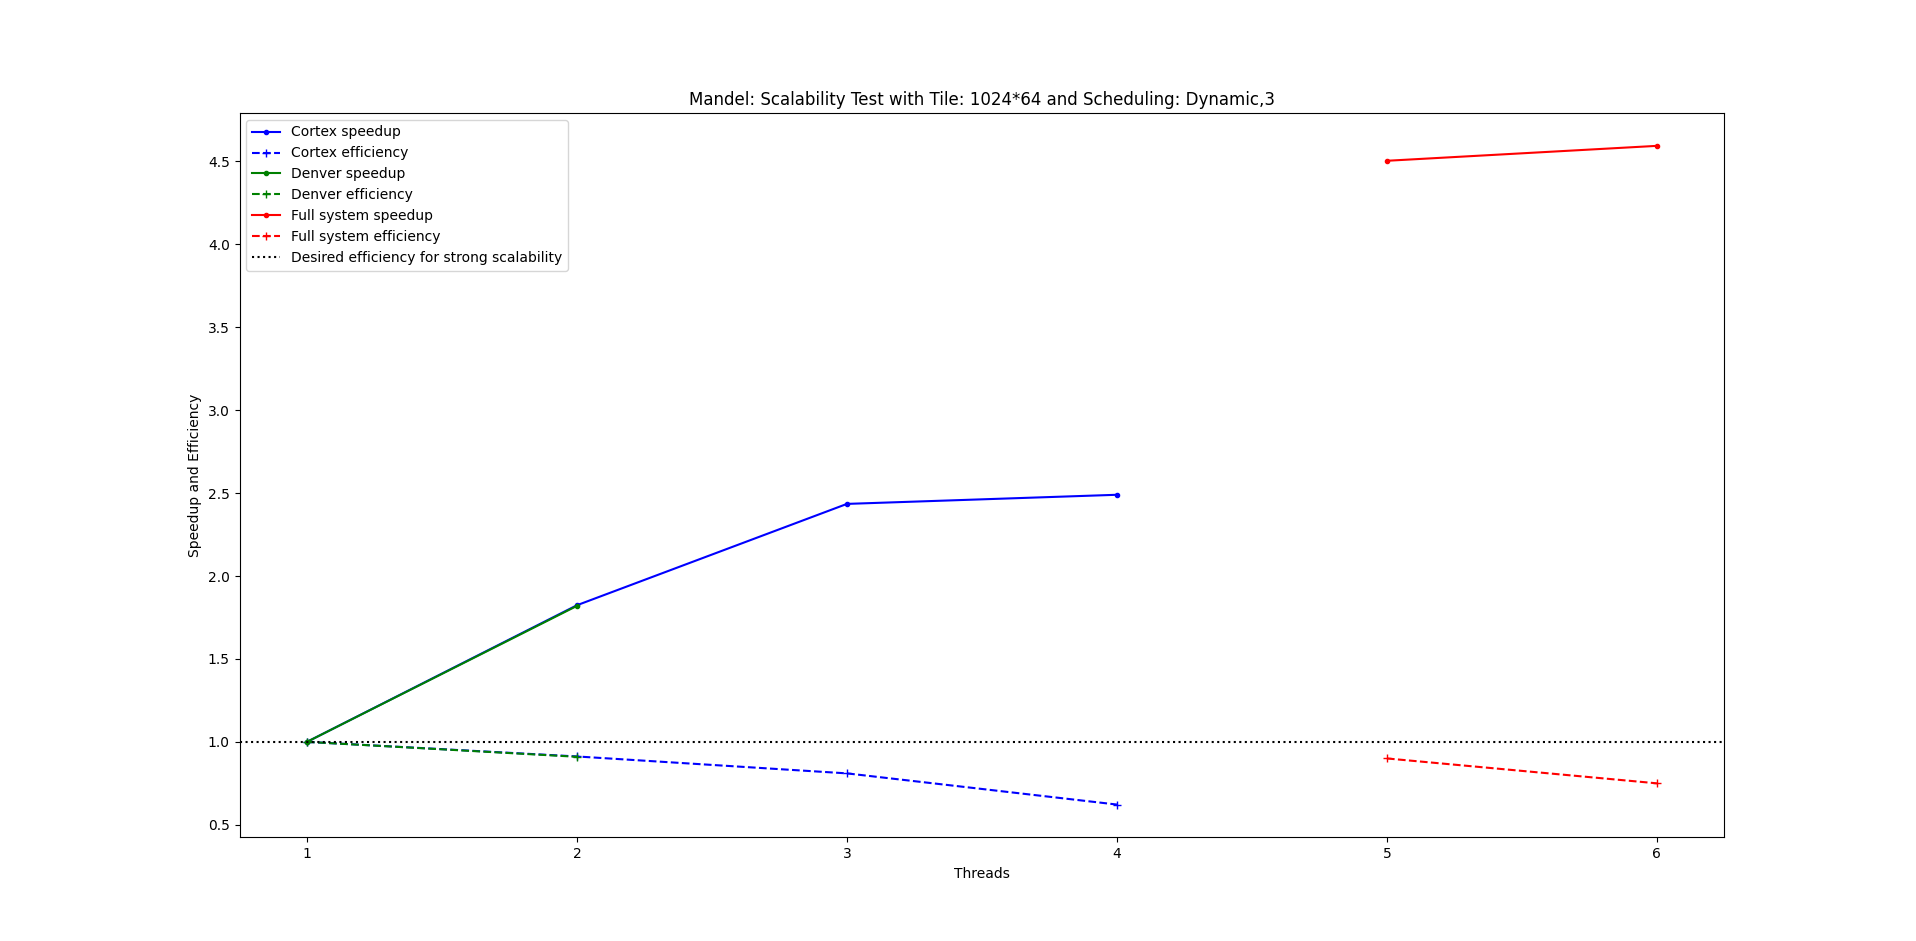
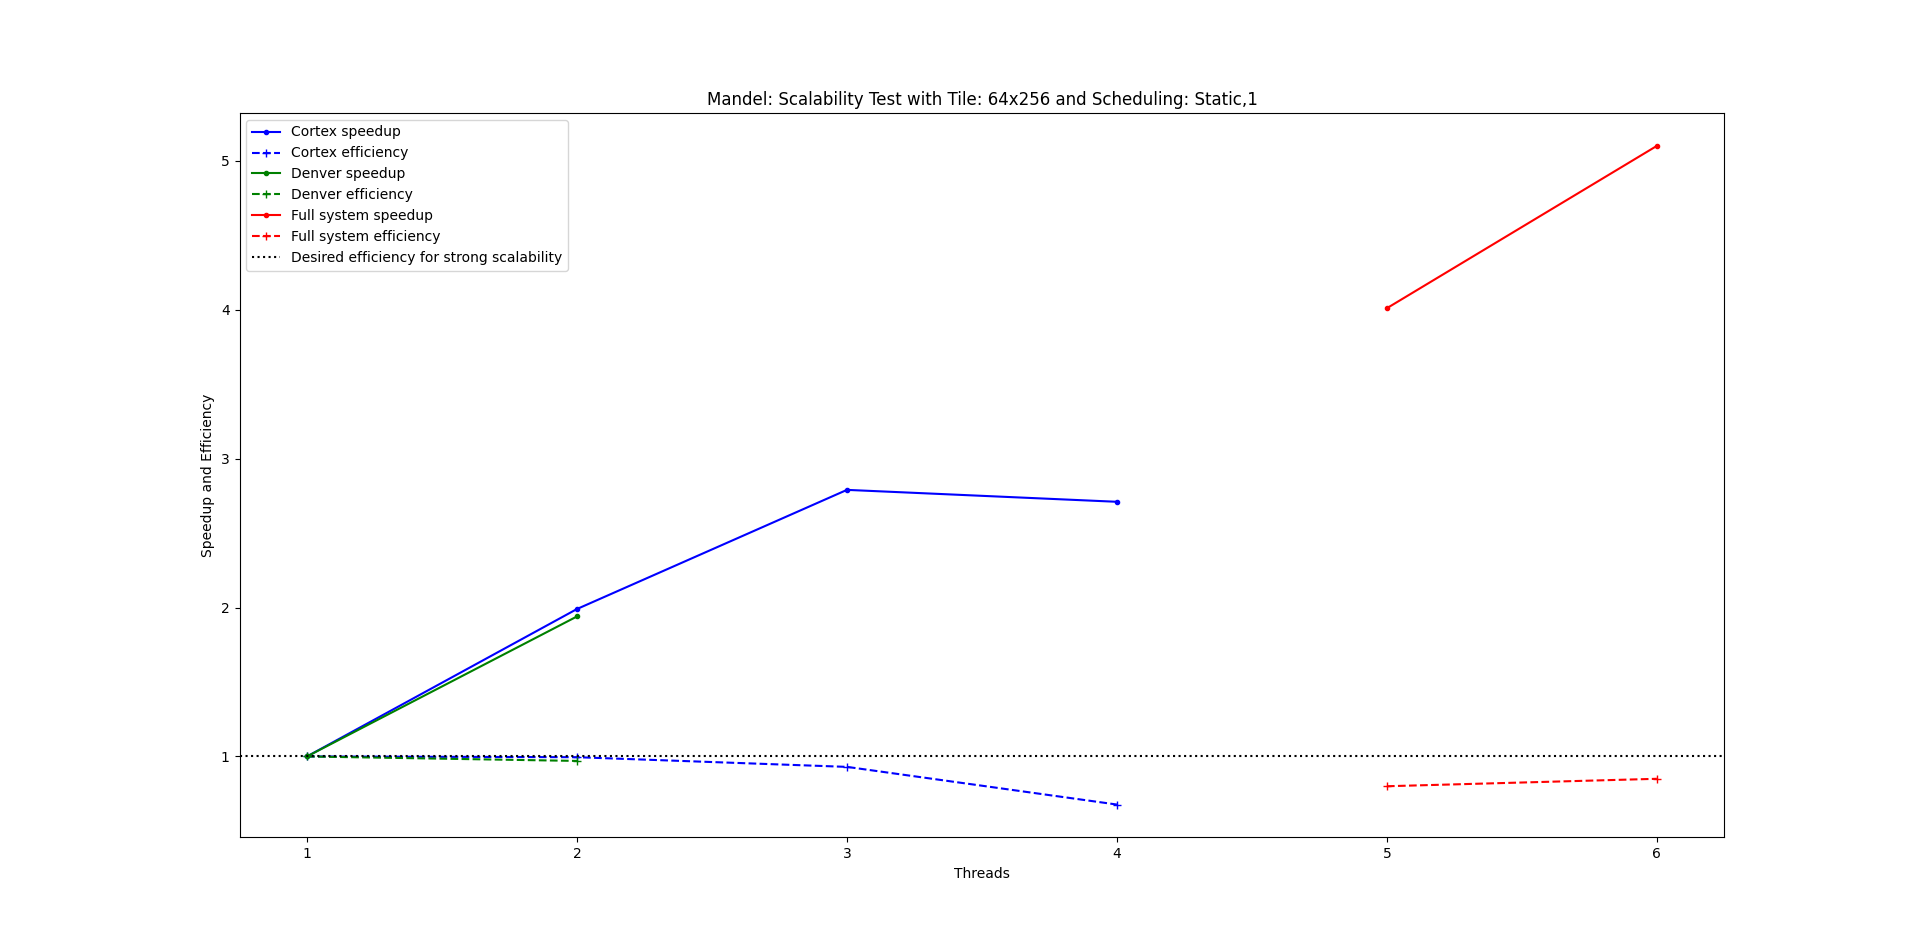
add 6 for mandel

diff --git a/hs4/mandel.c b/hs4/mandel.c
@@ -1,3 +1,108 @@
+//###########################################################################
+// ######################## 2.1 Work to do #4 ###############################
+//###########################################################################
+/** 
+ * We run the kernel for 10 iteration, using different configurations 
+ * for the tiling,the scheduling and the number of threads. We used a 
+ * script to run the program with all the possible combinations of the
+ * parameters, skipping the invalid ones(number of tiles less than the 
+ * number of threads etc...). We then collected the results and we 
+ * got the best configuration under 3000ms.
+ * 
+ * cpu,th,tw,threads,schedule,schedule_n,time
+ * full_system,64,64,6,static,1,2840.531
+ * full_system,64,128,6,static,1,2996.948
+ * full_system,64,256,6,static,1,2566.211 # BEST CONFIGURATION
+ * full_system,128,64,6,static,1,2957.591
+ * full_system,256,64,6,static,1,2657.949
+ * full_system,256,256,6,static,1,2956.679
+ * full_system,1024,64,6,static,1,2912.659
+ * full_system,128,128,6,static,3,2965.859
+ * full_system,64,64,6,dynamic,1,2820.350
+ * full_system,512,64,6,dynamic,1,2882.839
+ * full_system,1024,64,6,dynamic,1,2760.596
+ * full_system,128,256,6,dynamic,3,2980.233
+ * 
+ * The best configuration is the one with:
+ * cpu: full_system
+ * th: 64
+ * tw: 256
+ * threads: 6
+ * schedule: static,1
+ * time: 2566.211 ms
+ * 
+ * 
+ * We can observe that we can find both dynamic and static 
+ * scheduling under 3000ms. Differently from the blur2 kernel,
+ * Mandel kernel may be unbalanced due to some pixels that
+ * require more iterations to converge. 
+ * 
+ * 
+ */
+
+//###########################################################################
+// ######################## 2.1 Work to do #6 ###############################
+//###########################################################################
+// Memory Analysis for 1024.png
+/* 
+ * We are dealing with a 1024x1024 image, which means that the image has a size of 4MB.
+ * From our previous analysis, we know that when dealing with a workload of that size,
+ * we are out of the L1 cache and L2 cache, and we are using the RAM. Moreover, the 
+ * only access to memory is when we store the result of the computation. This means
+ * that we can directly look at the benchmark results of the write bandwidth of the
+ * memory for 4MB of data.
+ */
+
+
+// Operational Intensity (OI) Analysis
+/**
+ * Each pixel requires at least 4 + 8 FLOPs  and then, depending on the number of iterations,
+ * it performs 8 FLOPS per iteration. In the worst case, each pixel will perform 4 + 8*MAX_ITERATIONS
+ * FLOPs.
+ * At the end of the computation, we store the result of the computation, which requires only 1 store.
+ *  
+ */
+
+// The ARITHMETIC INTENSITY is ops/mem_acc = (4 + 8*AVG_ITERATIONS_PER_PIXEL)*1024*1024 / 1024*1024 = 4 + 8*AVG_ITERATIONS_PER_PIXEL
+
+// The OPERATIONAL INTENSITY is AI/size_of_data = (4 + 8*AVG_ITERATIONS_PER_PIXEL)*1024*1024 / 4 = 2 + 4*AVG_ITERATIONS_PER_PIXEL
+//(We are using floats, so the size of the data is 4 bytes.)
+
+// Roofline Model Analysis
+/**
+ * In order to define the Roofline Model, we need to know the peak performance of the CPU.
+ * For the Cortex-A57 we have: 
+ *  - freq: 2.04 GHz
+ *  - nops: 3 instructions per cycle x 4 simd width when using integers = 12 instructions per cycle
+ *  - number of cores: 4
+ * The peak performance is 2.04 GHz x 12 instructions per cycle x 4 cores = 97.92 Gops/s
+ * 
+ * The memory bandwidth, for the write operation when accessing 4MB, according to the previous analysis,
+ * is 39.2 GB/s.
+ * 
+ * From the Roofline model, we can compute the minimum between the peak performance and the memory 
+ * bandwidth*Operational Intensity, which is equal to 39.2 GB/s x (2 + 4*AVG_ITERATIONS_PER_PIXEL) = 78.4 Gops/s + 156.8*AVG_ITERATIONS_PER_PIXEL Gops/s.
+ * 
+ * So, since product bandwidth*Operational Intensity is always greater than the peak performance, for any value of 
+ * AVG_ITERATIONS_PER_PIXEL (at least 1), the kernel is compute bounds when using all the Cortex's cores. The maximum performance
+ * achievable will be of 97.92 Gops/s.
+ * 
+ * 
+ * For the Denver2, we have:
+ *  - freq: 2.04 GHz
+ *  - nops: 2 instructions per cycle x 4 simd width when using integers = 8 instructions per cycle
+ *  - number of cores: 2
+ * The peak performance is 2.04 GHz x 8 instructions per cycle x 2 cores = 32.64 Gops/s
+ * 
+ * The memory bandwidth for the Denver, according to the previous analysis, is 21.7 GB/s
+ * when using all the cores and accessing the RAM. 
+ * From the Roofline model, we can compute the minimum between the peak performance and the memory 
+ * bandwidth*Operational Intensity, which is equal to 21.7 GB/s x (2 + 4*AVG_ITERATIONS_PER_PIXEL) = 43.4 Gops/s + 86.8*AVG_ITERATIONS_PER_PIXEL Gops/s.
+ * 
+ * So, since product bandwidth*Operational Intensity is always greater than the peak performance, for any value of
+ * AVG_ITERATIONS_PER_PIXEL (at least 1), the kernel is compute bounds when using all the Denver's cores. The maximum
+ * performance achievable will be of 32.64 Gops/s.
+ */
 
 #include "easypap.h"
 
@@ -222,17 +327,19 @@ static void zoom (void)
 
 static unsigned compute_one_pixel (int i, int j)
 {
-  float cr = leftX + xstep * j;
-  float ci = topY - ystep * i;
+  float cr = leftX + xstep * j; // 2 floating-point operations
+  float ci = topY - ystep * i; // 2 floating-point operations
   float zr = 0.0, zi = 0.0;
 
   int iter;
 
   // Pour chaque pixel, on calcule les termes d'une suite, et on
   // s'arrête lorsque |Z| > 2 ou lorsqu'on atteint MAX_ITERATIONS
+  
+  // 8 FLOPS per iteration
   for (iter = 0; iter < MAX_ITERATIONS; iter++) {
-    float x2 = zr * zr;
-    float y2 = zi * zi;
+    float x2 = zr * zr; 
+    float y2 = zi * zi; 
 
     /* Stop iterations when |Z| > 2 */
     if (x2 + y2 > 4.0)
@@ -240,10 +347,10 @@ static unsigned compute_one_pixel (int i, int j)
 
     float twoxy = (float)2.0 * zr * zi;
     /* Z = Z^2 + C */
-    zr = x2 - y2 + cr;
-    zi = twoxy + ci;
+    zr = x2 - y2 + cr; 
+    zi = twoxy + ci; 
   }
 
-  return iteration_to_color (iter);
+  return iteration_to_color (iter); //
 }
 

diff --git a/hs4/plots/scalability_plot.py b/hs4/plots/scalability_plot.py
@@ -5,9 +5,9 @@ import pandas as pd
 data = {
     "CPU": ["cortex", "cortex", "cortex", "cortex", "denver", "denver","full_system", "full_system"],
     "Threads": [1, 2, 3, 4, 1, 2, 5, 6],
-    "Time": [12.681, 6.950, 5.206, 5.155, 9.207, 5.058, 2.815, 2.760],
-	"Speedup": [1, 1.824, 2.435, 2.49, 1, 1.820 , 4.504, 4.594],
-	"Efficiency": [1, 0.912, 0.81, 0.622, 1, 0.91, 0.9, 0.750]
+    "Time": [12.772, 6.421, 4.584, 4.714, 9.533, 4.907, 3.185, 2.500],
+	"Speedup": [1, 1.99, 2.79, 2.71, 1, 1.94, 4.01, 5.10],
+	"Efficiency": [1, 0.995, 0.93, 0.677, 1, 0.97, 0.80, 0.85]
     
 }
 
@@ -48,7 +48,7 @@ plt.plot(full_system_data["Threads"], full_system_data["Efficiency"], marker='+'
 plt.axhline(y=1, color='black', linestyle=':', label="Desired efficiency for strong scalability")
 
 # Adding titles, labels, and legend
-plt.title("Mandel: Scalability Test with Tile: 1024*64 and Scheduling: Dynamic,3")
+plt.title("Mandel: Scalability Test with Tile: 64x256 and Scheduling: Static,1")
 plt.xlabel("Threads")
 plt.ylabel("Speedup and Efficiency")
 plt.legend()
